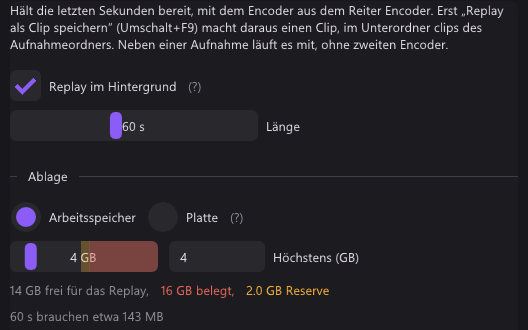
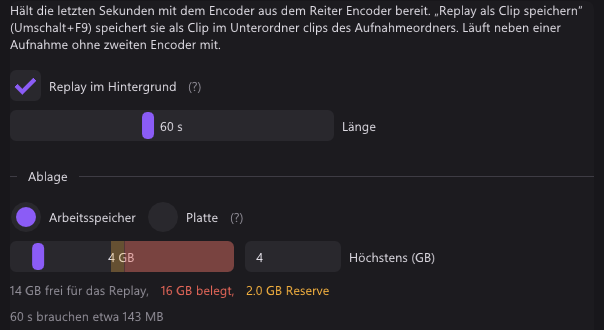
Manual: new Recording, Replay and Virtual camera shots
The shots now show the current help texts and the audio bitrate row,
in English and German. Sizes updated on the manual and the comparison
pages.

diff --git a/docs/de/manual.html b/docs/de/manual.html
@@ -211,7 +211,7 @@
         <li><strong>Nach MP4 umpacken</strong> macht fertige Aufnahmen zu MP4, ohne sie neu zu kodieren.</li>
       </ul>
       <figure class="ui">
-        <img src="shots/recording.png" width="528" height="718" loading="lazy" alt="Der Reiter Aufnahme: Container MKV, Bildrate und Auflösung wie die Quelle, der Ausgabeordner mit dem freien Platz als Aufnahmezeit, der größere Puffer im Arbeitsspeicher und unter Screenshots das Format PNG und der Screenshot-Ordner">
+        <img src="shots/recording.png" width="582" height="758" loading="lazy" alt="Der Reiter Aufnahme: Container MKV, Tonbitrate 192 kbit/s, Bildrate und Auflösung wie die Quelle, der Ausgabeordner mit dem freien Platz als Aufnahmezeit, der größere Puffer im Arbeitsspeicher und unter Screenshots das Format PNG und der Screenshot-Ordner">
         <figcaption>Einstellungen &rarr; Aufnahme: Container, Auflösung, Ordner und freier Platz, darunter die Screenshots.</figcaption>
       </figure>
       <figure class="ui">
@@ -229,7 +229,7 @@
         <li><kbd>Umschalt</kbd>+<kbd>F9</kbd> speichert es als Clip nach <code>clips\</code>, auch während einer Aufnahme: beide teilen sich einen Encoder.</li>
       </ul>
       <figure class="ui">
-        <img src="shots/replay.png" width="528" height="330" loading="lazy" alt="Der Reiter Replay: Replay im Hintergrund an, Länge 60 Sekunden, Ablage im Arbeitsspeicher mit höchstens 4 GB, der freie Speicher und was 60 Sekunden brauchen">
+        <img src="shots/replay.png" width="604" height="330" loading="lazy" alt="Der Reiter Replay: Replay im Hintergrund an, Länge 60 Sekunden, Ablage im Arbeitsspeicher mit höchstens 4 GB, der freie Speicher und was 60 Sekunden brauchen">
         <figcaption>Einstellungen &rarr; Replay: Länge, Arbeitsspeicher oder Platte.</figcaption>
       </figure>
       <h3>Screenshots</h3>
@@ -241,7 +241,7 @@
       <h3>Virtuelle Kamera</h3>
       <p><strong>Aufnahme &rarr; Virtuelle Kamera &rarr; Kamera installieren</strong> fragt einmal nach Administratorrechten. Danach können OBS, Discord oder ein Browser qBlank als Kamera wählen. Deinstalliert wird sie an derselben Stelle.</p>
       <figure class="ui">
-        <img src="shots/camera.png" width="528" height="402" loading="lazy" alt="Der Abschnitt Virtuelle Kamera: eingeschaltet, OBS und Discord lesen mit, jedes in seinem eigenen Format">
+        <img src="shots/camera.png" width="582" height="370" loading="lazy" alt="Der Abschnitt Virtuelle Kamera: eingeschaltet, OBS und Discord lesen mit, jedes in seinem eigenen Format">
         <figcaption>Aufnahme &rarr; Virtuelle Kamera: installiert, eingeschaltet, und wer gerade mitliest.</figcaption>
       </figure>
     </section>

diff --git a/docs/manual.html b/docs/manual.html
@@ -212,7 +212,7 @@
         <li><strong>Rewrap to MP4</strong> turns finished recordings into MP4 without encoding them again.</li>
       </ul>
       <figure class="ui">
-        <img src="shots/recording.png" width="528" height="718" loading="lazy" alt="The Recording tab: container MKV, frame rate and resolution same as source, the output folder with the free space as recording time, the larger buffer in memory, and under Screenshots the format PNG and the screenshot folder">
+        <img src="shots/recording.png" width="582" height="758" loading="lazy" alt="The Recording tab: container MKV, audio bitrate 192 kbit/s, frame rate and resolution same as source, the output folder with the free space as recording time, the larger buffer in memory, and under Screenshots the format PNG and the screenshot folder">
         <figcaption>Settings &rarr; Recording: container, resolution, folder and free space, below them the screenshots.</figcaption>
       </figure>
       <figure class="ui">
@@ -230,7 +230,7 @@
         <li><kbd>Shift</kbd>+<kbd>F9</kbd> saves it as a clip into <code>clips\</code>, also during a recording: both share one encoder.</li>
       </ul>
       <figure class="ui">
-        <img src="shots/replay.png" width="528" height="330" loading="lazy" alt="The Replay tab: replay in the background on, length 60 seconds, storage in memory with at most 4 GB, the free memory, and what 60 seconds take">
+        <img src="shots/replay.png" width="604" height="330" loading="lazy" alt="The Replay tab: replay in the background on, length 60 seconds, storage in memory with at most 4 GB, the free memory, and what 60 seconds take">
         <figcaption>Settings &rarr; Replay: length, and memory or disk.</figcaption>
       </figure>
       <h3>Screenshots</h3>
@@ -242,7 +242,7 @@
       <h3>Virtual camera</h3>
       <p><strong>Recording &rarr; Virtual camera &rarr; Install camera</strong> asks once for administrator rights. After that, OBS, Discord or a browser can pick qBlank as a camera. Uninstall it there too.</p>
       <figure class="ui">
-        <img src="shots/camera.png" width="528" height="368" loading="lazy" alt="The Virtual camera section: switched on, with OBS and Discord reading, each in its own format">
+        <img src="shots/camera.png" width="582" height="370" loading="lazy" alt="The Virtual camera section: switched on, with OBS and Discord reading, each in its own format">
         <figcaption>Recording &rarr; Virtual camera: installed, on, and who is reading it.</figcaption>
       </figure>
     </section>

diff --git a/docs/de/vs-amarectv.html b/docs/de/vs-amarectv.html
@@ -357,7 +357,7 @@
         <li>Marker: <kbd>Strg</kbd>+<kbd>Umschalt</kbd>+<kbd>F9</kbd> setzt einen, Player zeigen sie als Kapitel.</li>
       </ul>
       <figure class="ui">
-        <img src="shots/recording.png" width="528" height="718" loading="lazy" alt="Der Reiter Aufnahme: Container MKV, Bildrate und Auflösung wie die Quelle, der Ausgabeordner mit dem freien Platz als Aufnahmezeit, der größere Puffer im Arbeitsspeicher und unter Screenshots das Format PNG und der Screenshot-Ordner">
+        <img src="shots/recording.png" width="582" height="758" loading="lazy" alt="Der Reiter Aufnahme: Container MKV, Tonbitrate 192 kbit/s, Bildrate und Auflösung wie die Quelle, der Ausgabeordner mit dem freien Platz als Aufnahmezeit, der größere Puffer im Arbeitsspeicher und unter Screenshots das Format PNG und der Screenshot-Ordner">
         <figcaption>Aufnahme: Container, Rate, Größe, Ordner, Teilen und Puffer.</figcaption>
       </figure>
       <figure class="ui">
@@ -365,7 +365,7 @@
         <figcaption>Ton &rarr; Tonquellen der Aufnahme: jede mit Verstärkung, Spuren und Pegel.</figcaption>
       </figure>
       <figure class="ui">
-        <img src="shots/replay.png" width="528" height="330" loading="lazy" alt="Der Reiter Replay: Replay im Hintergrund an, Länge 60 Sekunden, Ablage im Arbeitsspeicher mit höchstens 4 GB, der freie Speicher und was 60 Sekunden brauchen">
+        <img src="shots/replay.png" width="604" height="330" loading="lazy" alt="Der Reiter Replay: Replay im Hintergrund an, Länge 60 Sekunden, Ablage im Arbeitsspeicher mit höchstens 4 GB, der freie Speicher und was 60 Sekunden brauchen">
         <figcaption>Replay: Länge, Arbeitsspeicher oder Platte.</figcaption>
       </figure>
     </section>
@@ -385,7 +385,7 @@
       </table>
       <p>AmaRec Live kam mit 3.10, und 4.x nutzt es weiter. Sein Status zeigt <em>Rdy</em>, <em>Run</em> oder <em>Disable</em>. OBS-Nutzer berichten, dass sie dafür das 32-Bit-OBS brauchten.</p>
       <figure class="ui">
-        <img src="shots/camera.png" width="528" height="402" loading="lazy" alt="Der Abschnitt Virtuelle Kamera: eingeschaltet, OBS und Discord lesen mit, jedes in seinem eigenen Format">
+        <img src="shots/camera.png" width="582" height="370" loading="lazy" alt="Der Abschnitt Virtuelle Kamera: eingeschaltet, OBS und Discord lesen mit, jedes in seinem eigenen Format">
         <figcaption>Aufnahme &rarr; Virtuelle Kamera: installiert, eingeschaltet, und wer gerade mitliest.</figcaption>
       </figure>
     </section>

diff --git a/docs/de/vs-streaming-center.html b/docs/de/vs-streaming-center.html
@@ -248,7 +248,7 @@
         <li>Marker: <kbd>Strg</kbd>+<kbd>Umschalt</kbd>+<kbd>F9</kbd> setzt einen, Player zeigen sie als Kapitel.</li>
       </ul>
       <figure class="ui">
-        <img src="shots/recording.png" width="528" height="718" loading="lazy" alt="Der Reiter Aufnahme: Container MKV, Bildrate und Auflösung wie die Quelle, der Ausgabeordner mit dem freien Platz als Aufnahmezeit, der größere Puffer im Arbeitsspeicher und unter Screenshots das Format PNG und der Screenshot-Ordner">
+        <img src="shots/recording.png" width="582" height="758" loading="lazy" alt="Der Reiter Aufnahme: Container MKV, Tonbitrate 192 kbit/s, Bildrate und Auflösung wie die Quelle, der Ausgabeordner mit dem freien Platz als Aufnahmezeit, der größere Puffer im Arbeitsspeicher und unter Screenshots das Format PNG und der Screenshot-Ordner">
         <figcaption>Aufnahme: Container, Rate, Größe, Ordner, Teilen und Puffer.</figcaption>
       </figure>
       <figure class="ui">
@@ -256,7 +256,7 @@
         <figcaption>Ton &rarr; Tonquellen der Aufnahme: jede mit Verstärkung, Spuren und Pegel.</figcaption>
       </figure>
       <figure class="ui">
-        <img src="shots/replay.png" width="528" height="330" loading="lazy" alt="Der Reiter Replay: Replay im Hintergrund an, Länge 60 Sekunden, Ablage im Arbeitsspeicher mit höchstens 4 GB, der freie Speicher und was 60 Sekunden brauchen">
+        <img src="shots/replay.png" width="604" height="330" loading="lazy" alt="Der Reiter Replay: Replay im Hintergrund an, Länge 60 Sekunden, Ablage im Arbeitsspeicher mit höchstens 4 GB, der freie Speicher und was 60 Sekunden brauchen">
         <figcaption>Replay: Länge, Arbeitsspeicher oder Platte.</figcaption>
       </figure>
     </section>
@@ -269,7 +269,7 @@
         <li>Beide haben eine virtuelle Kamera. qBlanks ist eine DirectShow-Quelle für 64-Bit-Programme, HDR eingeschlossen. Wie die von Streaming Center arbeitet, steht nirgends.</li>
       </ul>
       <figure class="ui">
-        <img src="shots/camera.png" width="528" height="402" loading="lazy" alt="Der Abschnitt Virtuelle Kamera: eingeschaltet, OBS und Discord lesen mit, jedes in seinem eigenen Format">
+        <img src="shots/camera.png" width="582" height="370" loading="lazy" alt="Der Abschnitt Virtuelle Kamera: eingeschaltet, OBS und Discord lesen mit, jedes in seinem eigenen Format">
         <figcaption>Aufnahme &rarr; Virtuelle Kamera: installiert, eingeschaltet, und wer gerade mitliest.</figcaption>
       </figure>
     </section>

diff --git a/docs/de/vs-elgato-studio.html b/docs/de/vs-elgato-studio.html
@@ -235,7 +235,7 @@
         <li>Marker: <kbd>Strg</kbd>+<kbd>Umschalt</kbd>+<kbd>F9</kbd> setzt einen, Player zeigen sie als Kapitel.</li>
       </ul>
       <figure class="ui">
-        <img src="shots/recording.png" width="528" height="718" loading="lazy" alt="Der Reiter Aufnahme: Container MKV, Bildrate und Auflösung wie die Quelle, der Ausgabeordner mit dem freien Platz als Aufnahmezeit, der größere Puffer im Arbeitsspeicher und unter Screenshots das Format PNG und der Screenshot-Ordner">
+        <img src="shots/recording.png" width="582" height="758" loading="lazy" alt="Der Reiter Aufnahme: Container MKV, Tonbitrate 192 kbit/s, Bildrate und Auflösung wie die Quelle, der Ausgabeordner mit dem freien Platz als Aufnahmezeit, der größere Puffer im Arbeitsspeicher und unter Screenshots das Format PNG und der Screenshot-Ordner">
         <figcaption>Aufnahme: Container, Rate, Größe, Ordner, Teilen und Puffer.</figcaption>
       </figure>
       <figure class="ui">
@@ -243,7 +243,7 @@
         <figcaption>Ton &rarr; Tonquellen der Aufnahme: jede mit Verstärkung, Spuren und Pegel.</figcaption>
       </figure>
       <figure class="ui">
-        <img src="shots/replay.png" width="528" height="330" loading="lazy" alt="Der Reiter Replay: Replay im Hintergrund an, Länge 60 Sekunden, Ablage im Arbeitsspeicher mit höchstens 4 GB, der freie Speicher und was 60 Sekunden brauchen">
+        <img src="shots/replay.png" width="604" height="330" loading="lazy" alt="Der Reiter Replay: Replay im Hintergrund an, Länge 60 Sekunden, Ablage im Arbeitsspeicher mit höchstens 4 GB, der freie Speicher und was 60 Sekunden brauchen">
         <figcaption>Replay: Länge, Arbeitsspeicher oder Platte.</figcaption>
       </figure>
     </section>
@@ -256,7 +256,7 @@
         <li>qBlank hat eine virtuelle Kamera eingebaut, eine DirectShow-Quelle für 64-Bit-Programme. Elgato Studio hat keine; andere Programme öffnen die Karte direkt.</li>
       </ul>
       <figure class="ui">
-        <img src="shots/camera.png" width="528" height="402" loading="lazy" alt="Der Abschnitt Virtuelle Kamera: eingeschaltet, OBS und Discord lesen mit, jedes in seinem eigenen Format">
+        <img src="shots/camera.png" width="582" height="370" loading="lazy" alt="Der Abschnitt Virtuelle Kamera: eingeschaltet, OBS und Discord lesen mit, jedes in seinem eigenen Format">
         <figcaption>Aufnahme &rarr; Virtuelle Kamera: installiert, eingeschaltet, und wer gerade mitliest.</figcaption>
       </figure>
     </section>

diff --git a/docs/de/vs-nvidia-app.html b/docs/de/vs-nvidia-app.html
@@ -179,7 +179,7 @@
         <li>Marker: <kbd>Strg</kbd>+<kbd>Umschalt</kbd>+<kbd>F9</kbd> setzt einen, Player zeigen sie als Kapitel.</li>
       </ul>
       <figure class="ui">
-        <img src="shots/recording.png" width="528" height="718" loading="lazy" alt="Der Reiter Aufnahme: Container MKV, Bildrate und Auflösung wie die Quelle, der Ausgabeordner mit dem freien Platz als Aufnahmezeit, der größere Puffer im Arbeitsspeicher und unter Screenshots das Format PNG und der Screenshot-Ordner">
+        <img src="shots/recording.png" width="582" height="758" loading="lazy" alt="Der Reiter Aufnahme: Container MKV, Tonbitrate 192 kbit/s, Bildrate und Auflösung wie die Quelle, der Ausgabeordner mit dem freien Platz als Aufnahmezeit, der größere Puffer im Arbeitsspeicher und unter Screenshots das Format PNG und der Screenshot-Ordner">
         <figcaption>Aufnahme: Container, Rate, Größe, Ordner, Teilen und Puffer.</figcaption>
       </figure>
       <figure class="ui">
@@ -202,7 +202,7 @@
         <li>qBlank hält das Replay im Arbeitsspeicher oder auf der Platte. Replay-Puffer und Aufnahme teilen einen Encoder.</li>
       </ul>
       <figure class="ui">
-        <img src="shots/replay.png" width="528" height="330" loading="lazy" alt="Der Reiter Replay: Replay im Hintergrund an, Länge 60 Sekunden, Ablage im Arbeitsspeicher mit höchstens 4 GB, der freie Speicher und was 60 Sekunden brauchen">
+        <img src="shots/replay.png" width="604" height="330" loading="lazy" alt="Der Reiter Replay: Replay im Hintergrund an, Länge 60 Sekunden, Ablage im Arbeitsspeicher mit höchstens 4 GB, der freie Speicher und was 60 Sekunden brauchen">
         <figcaption>Replay: Länge, Arbeitsspeicher oder Platte.</figcaption>
       </figure>
     </section>
@@ -215,7 +215,7 @@
         <li>qBlank hat eine virtuelle Kamera eingebaut, eine DirectShow-Quelle für 64-Bit-Programme. Die NVIDIA App hat keine.</li>
       </ul>
       <figure class="ui">
-        <img src="shots/camera.png" width="528" height="402" loading="lazy" alt="Der Abschnitt Virtuelle Kamera: eingeschaltet, OBS und Discord lesen mit, jedes in seinem eigenen Format">
+        <img src="shots/camera.png" width="582" height="370" loading="lazy" alt="Der Abschnitt Virtuelle Kamera: eingeschaltet, OBS und Discord lesen mit, jedes in seinem eigenen Format">
         <figcaption>Aufnahme &rarr; Virtuelle Kamera: installiert, eingeschaltet, und wer gerade mitliest.</figcaption>
       </figure>
     </section>

diff --git a/docs/de/vs-potplayer.html b/docs/de/vs-potplayer.html
@@ -286,7 +286,7 @@
         <li>Marker: <kbd>Strg</kbd>+<kbd>Umschalt</kbd>+<kbd>F9</kbd> setzt einen, Player zeigen sie als Kapitel.</li>
       </ul>
       <figure class="ui">
-        <img src="shots/recording.png" width="528" height="718" loading="lazy" alt="Der Reiter Aufnahme: Container MKV, Bildrate und Auflösung wie die Quelle, der Ausgabeordner mit dem freien Platz als Aufnahmezeit, der größere Puffer im Arbeitsspeicher und unter Screenshots das Format PNG und der Screenshot-Ordner">
+        <img src="shots/recording.png" width="582" height="758" loading="lazy" alt="Der Reiter Aufnahme: Container MKV, Tonbitrate 192 kbit/s, Bildrate und Auflösung wie die Quelle, der Ausgabeordner mit dem freien Platz als Aufnahmezeit, der größere Puffer im Arbeitsspeicher und unter Screenshots das Format PNG und der Screenshot-Ordner">
         <figcaption>Aufnahme: Container, Rate, Größe, Ordner, Teilen und Puffer.</figcaption>
       </figure>
       <figure class="ui">
@@ -294,7 +294,7 @@
         <figcaption>Ton &rarr; Tonquellen der Aufnahme: jede mit Verstärkung, Spuren und Pegel.</figcaption>
       </figure>
       <figure class="ui">
-        <img src="shots/replay.png" width="528" height="330" loading="lazy" alt="Der Reiter Replay: Replay im Hintergrund an, Länge 60 Sekunden, Ablage im Arbeitsspeicher mit höchstens 4 GB, der freie Speicher und was 60 Sekunden brauchen">
+        <img src="shots/replay.png" width="604" height="330" loading="lazy" alt="Der Reiter Replay: Replay im Hintergrund an, Länge 60 Sekunden, Ablage im Arbeitsspeicher mit höchstens 4 GB, der freie Speicher und was 60 Sekunden brauchen">
         <figcaption>Replay: Länge, Arbeitsspeicher oder Platte.</figcaption>
       </figure>
     </section>
@@ -309,7 +309,7 @@
       </table>
       <p>In PotPlayer heißt <em>Video capture</em>, Bilder als Dateien zu speichern. Ein Video nimmt <em>Video Recording</em> auf.</p>
       <figure class="ui">
-        <img src="shots/camera.png" width="528" height="402" loading="lazy" alt="Der Abschnitt Virtuelle Kamera: eingeschaltet, OBS und Discord lesen mit, jedes in seinem eigenen Format">
+        <img src="shots/camera.png" width="582" height="370" loading="lazy" alt="Der Abschnitt Virtuelle Kamera: eingeschaltet, OBS und Discord lesen mit, jedes in seinem eigenen Format">
         <figcaption>Aufnahme &rarr; Virtuelle Kamera: installiert, eingeschaltet, und wer gerade mitliest.</figcaption>
       </figure>
     </section>

diff --git a/docs/vs-amarectv.html b/docs/vs-amarectv.html
@@ -359,7 +359,7 @@
         <li>Markers: <kbd>Ctrl</kbd>+<kbd>Shift</kbd>+<kbd>F9</kbd> sets one, players show them as chapters.</li>
       </ul>
       <figure class="ui">
-        <img src="shots/recording.png" width="528" height="718" loading="lazy" alt="The Recording tab: container MKV, frame rate and resolution same as source, the output folder with the free space as recording time, the larger buffer in memory, and under Screenshots the format PNG and the screenshot folder">
+        <img src="shots/recording.png" width="582" height="758" loading="lazy" alt="The Recording tab: container MKV, audio bitrate 192 kbit/s, frame rate and resolution same as source, the output folder with the free space as recording time, the larger buffer in memory, and under Screenshots the format PNG and the screenshot folder">
         <figcaption>Recording: container, rate, size, folder, splitting and buffer.</figcaption>
       </figure>
       <figure class="ui">
@@ -367,7 +367,7 @@
         <figcaption>Audio &rarr; Recording sources: each with gain, tracks and level.</figcaption>
       </figure>
       <figure class="ui">
-        <img src="shots/replay.png" width="528" height="330" loading="lazy" alt="The Replay tab: replay in the background on, length 60 seconds, storage in memory with at most 4 GB, the free memory, and what 60 seconds take">
+        <img src="shots/replay.png" width="604" height="330" loading="lazy" alt="The Replay tab: replay in the background on, length 60 seconds, storage in memory with at most 4 GB, the free memory, and what 60 seconds take">
         <figcaption>Replay: length, and memory or disk.</figcaption>
       </figure>
     </section>
@@ -387,7 +387,7 @@
       </table>
       <p>AmaRec Live came with 3.10, and 4.x still uses it. Its status shows <em>Rdy</em>, <em>Run</em> or <em>Disable</em>. OBS users report needing the 32-bit OBS for it.</p>
       <figure class="ui">
-        <img src="shots/camera.png" width="528" height="368" loading="lazy" alt="The Virtual camera section: switched on, with OBS and Discord reading, each in its own format">
+        <img src="shots/camera.png" width="582" height="370" loading="lazy" alt="The Virtual camera section: switched on, with OBS and Discord reading, each in its own format">
         <figcaption>Recording &rarr; Virtual camera: installed, on, and who is reading it.</figcaption>
       </figure>
     </section>

diff --git a/docs/vs-elgato-studio.html b/docs/vs-elgato-studio.html
@@ -237,7 +237,7 @@
         <li>Markers: <kbd>Ctrl</kbd>+<kbd>Shift</kbd>+<kbd>F9</kbd> sets one, players show them as chapters.</li>
       </ul>
       <figure class="ui">
-        <img src="shots/recording.png" width="528" height="718" loading="lazy" alt="The Recording tab: container MKV, frame rate and resolution same as source, the output folder with the free space as recording time, the larger buffer in memory, and under Screenshots the format PNG and the screenshot folder">
+        <img src="shots/recording.png" width="582" height="758" loading="lazy" alt="The Recording tab: container MKV, audio bitrate 192 kbit/s, frame rate and resolution same as source, the output folder with the free space as recording time, the larger buffer in memory, and under Screenshots the format PNG and the screenshot folder">
         <figcaption>Recording: container, rate, size, folder, splitting and buffer.</figcaption>
       </figure>
       <figure class="ui">
@@ -245,7 +245,7 @@
         <figcaption>Audio &rarr; Recording sources: each with gain, tracks and level.</figcaption>
       </figure>
       <figure class="ui">
-        <img src="shots/replay.png" width="528" height="330" loading="lazy" alt="The Replay tab: replay in the background on, length 60 seconds, storage in memory with at most 4 GB, the free memory, and what 60 seconds take">
+        <img src="shots/replay.png" width="604" height="330" loading="lazy" alt="The Replay tab: replay in the background on, length 60 seconds, storage in memory with at most 4 GB, the free memory, and what 60 seconds take">
         <figcaption>Replay: length, and memory or disk.</figcaption>
       </figure>
     </section>
@@ -258,7 +258,7 @@
         <li>qBlank has a virtual camera built in, a DirectShow source for 64-bit programs. Elgato Studio has none; other programs open the card directly.</li>
       </ul>
       <figure class="ui">
-        <img src="shots/camera.png" width="528" height="368" loading="lazy" alt="The Virtual camera section: switched on, with OBS and Discord reading, each in its own format">
+        <img src="shots/camera.png" width="582" height="370" loading="lazy" alt="The Virtual camera section: switched on, with OBS and Discord reading, each in its own format">
         <figcaption>Recording &rarr; Virtual camera: installed, on, and who is reading it.</figcaption>
       </figure>
     </section>

diff --git a/docs/vs-streaming-center.html b/docs/vs-streaming-center.html
@@ -250,7 +250,7 @@
         <li>Markers: <kbd>Ctrl</kbd>+<kbd>Shift</kbd>+<kbd>F9</kbd> sets one, players show them as chapters.</li>
       </ul>
       <figure class="ui">
-        <img src="shots/recording.png" width="528" height="718" loading="lazy" alt="The Recording tab: container MKV, frame rate and resolution same as source, the output folder with the free space as recording time, the larger buffer in memory, and under Screenshots the format PNG and the screenshot folder">
+        <img src="shots/recording.png" width="582" height="758" loading="lazy" alt="The Recording tab: container MKV, audio bitrate 192 kbit/s, frame rate and resolution same as source, the output folder with the free space as recording time, the larger buffer in memory, and under Screenshots the format PNG and the screenshot folder">
         <figcaption>Recording: container, rate, size, folder, splitting and buffer.</figcaption>
       </figure>
       <figure class="ui">
@@ -258,7 +258,7 @@
         <figcaption>Audio &rarr; Recording sources: each with gain, tracks and level.</figcaption>
       </figure>
       <figure class="ui">
-        <img src="shots/replay.png" width="528" height="330" loading="lazy" alt="The Replay tab: replay in the background on, length 60 seconds, storage in memory with at most 4 GB, the free memory, and what 60 seconds take">
+        <img src="shots/replay.png" width="604" height="330" loading="lazy" alt="The Replay tab: replay in the background on, length 60 seconds, storage in memory with at most 4 GB, the free memory, and what 60 seconds take">
         <figcaption>Replay: length, and memory or disk.</figcaption>
       </figure>
     </section>
@@ -271,7 +271,7 @@
         <li>Both have a virtual camera. qBlank's is a DirectShow source for 64-bit programs, HDR included. How Streaming Center's works is not stated.</li>
       </ul>
       <figure class="ui">
-        <img src="shots/camera.png" width="528" height="368" loading="lazy" alt="The Virtual camera section: switched on, with OBS and Discord reading, each in its own format">
+        <img src="shots/camera.png" width="582" height="370" loading="lazy" alt="The Virtual camera section: switched on, with OBS and Discord reading, each in its own format">
         <figcaption>Recording &rarr; Virtual camera: installed, on, and who is reading it.</figcaption>
       </figure>
     </section>

diff --git a/docs/vs-nvidia-app.html b/docs/vs-nvidia-app.html
@@ -181,7 +181,7 @@
         <li>Markers: <kbd>Ctrl</kbd>+<kbd>Shift</kbd>+<kbd>F9</kbd> sets one, players show them as chapters.</li>
       </ul>
       <figure class="ui">
-        <img src="shots/recording.png" width="528" height="718" loading="lazy" alt="The Recording tab: container MKV, frame rate and resolution same as source, the output folder with the free space as recording time, the larger buffer in memory, and under Screenshots the format PNG and the screenshot folder">
+        <img src="shots/recording.png" width="582" height="758" loading="lazy" alt="The Recording tab: container MKV, audio bitrate 192 kbit/s, frame rate and resolution same as source, the output folder with the free space as recording time, the larger buffer in memory, and under Screenshots the format PNG and the screenshot folder">
         <figcaption>Recording: container, rate, size, folder, splitting and buffer.</figcaption>
       </figure>
       <figure class="ui">
@@ -204,7 +204,7 @@
         <li>qBlank keeps the replay in memory or on disk. The replay buffer and the recording share one encoder.</li>
       </ul>
       <figure class="ui">
-        <img src="shots/replay.png" width="528" height="330" loading="lazy" alt="The Replay tab: replay in the background on, length 60 seconds, storage in memory with at most 4 GB, the free memory, and what 60 seconds take">
+        <img src="shots/replay.png" width="604" height="330" loading="lazy" alt="The Replay tab: replay in the background on, length 60 seconds, storage in memory with at most 4 GB, the free memory, and what 60 seconds take">
         <figcaption>Replay: length, and memory or disk.</figcaption>
       </figure>
     </section>
@@ -217,7 +217,7 @@
         <li>qBlank has a virtual camera built in, a DirectShow source for 64-bit programs. The NVIDIA App has none.</li>
       </ul>
       <figure class="ui">
-        <img src="shots/camera.png" width="528" height="368" loading="lazy" alt="The Virtual camera section: switched on, with OBS and Discord reading, each in its own format">
+        <img src="shots/camera.png" width="582" height="370" loading="lazy" alt="The Virtual camera section: switched on, with OBS and Discord reading, each in its own format">
         <figcaption>Recording &rarr; Virtual camera: installed, on, and who is reading it.</figcaption>
       </figure>
     </section>

diff --git a/docs/vs-potplayer.html b/docs/vs-potplayer.html
@@ -288,7 +288,7 @@
         <li>Markers: <kbd>Ctrl</kbd>+<kbd>Shift</kbd>+<kbd>F9</kbd> sets one, players show them as chapters.</li>
       </ul>
       <figure class="ui">
-        <img src="shots/recording.png" width="528" height="718" loading="lazy" alt="The Recording tab: container MKV, frame rate and resolution same as source, the output folder with the free space as recording time, the larger buffer in memory, and under Screenshots the format PNG and the screenshot folder">
+        <img src="shots/recording.png" width="582" height="758" loading="lazy" alt="The Recording tab: container MKV, audio bitrate 192 kbit/s, frame rate and resolution same as source, the output folder with the free space as recording time, the larger buffer in memory, and under Screenshots the format PNG and the screenshot folder">
         <figcaption>Recording: container, rate, size, folder, splitting and buffer.</figcaption>
       </figure>
       <figure class="ui">
@@ -296,7 +296,7 @@
         <figcaption>Audio &rarr; Recording sources: each with gain, tracks and level.</figcaption>
       </figure>
       <figure class="ui">
-        <img src="shots/replay.png" width="528" height="330" loading="lazy" alt="The Replay tab: replay in the background on, length 60 seconds, storage in memory with at most 4 GB, the free memory, and what 60 seconds take">
+        <img src="shots/replay.png" width="604" height="330" loading="lazy" alt="The Replay tab: replay in the background on, length 60 seconds, storage in memory with at most 4 GB, the free memory, and what 60 seconds take">
         <figcaption>Replay: length, and memory or disk.</figcaption>
       </figure>
     </section>
@@ -311,7 +311,7 @@
       </table>
       <p>In PotPlayer, <em>Video capture</em> means saving frames as images. Recording a video is <em>Video Recording</em>.</p>
       <figure class="ui">
-        <img src="shots/camera.png" width="528" height="368" loading="lazy" alt="The Virtual camera section: switched on, with OBS and Discord reading, each in its own format">
+        <img src="shots/camera.png" width="582" height="370" loading="lazy" alt="The Virtual camera section: switched on, with OBS and Discord reading, each in its own format">
         <figcaption>Recording &rarr; Virtual camera: installed, on, and who is reading it.</figcaption>
       </figure>
     </section>
